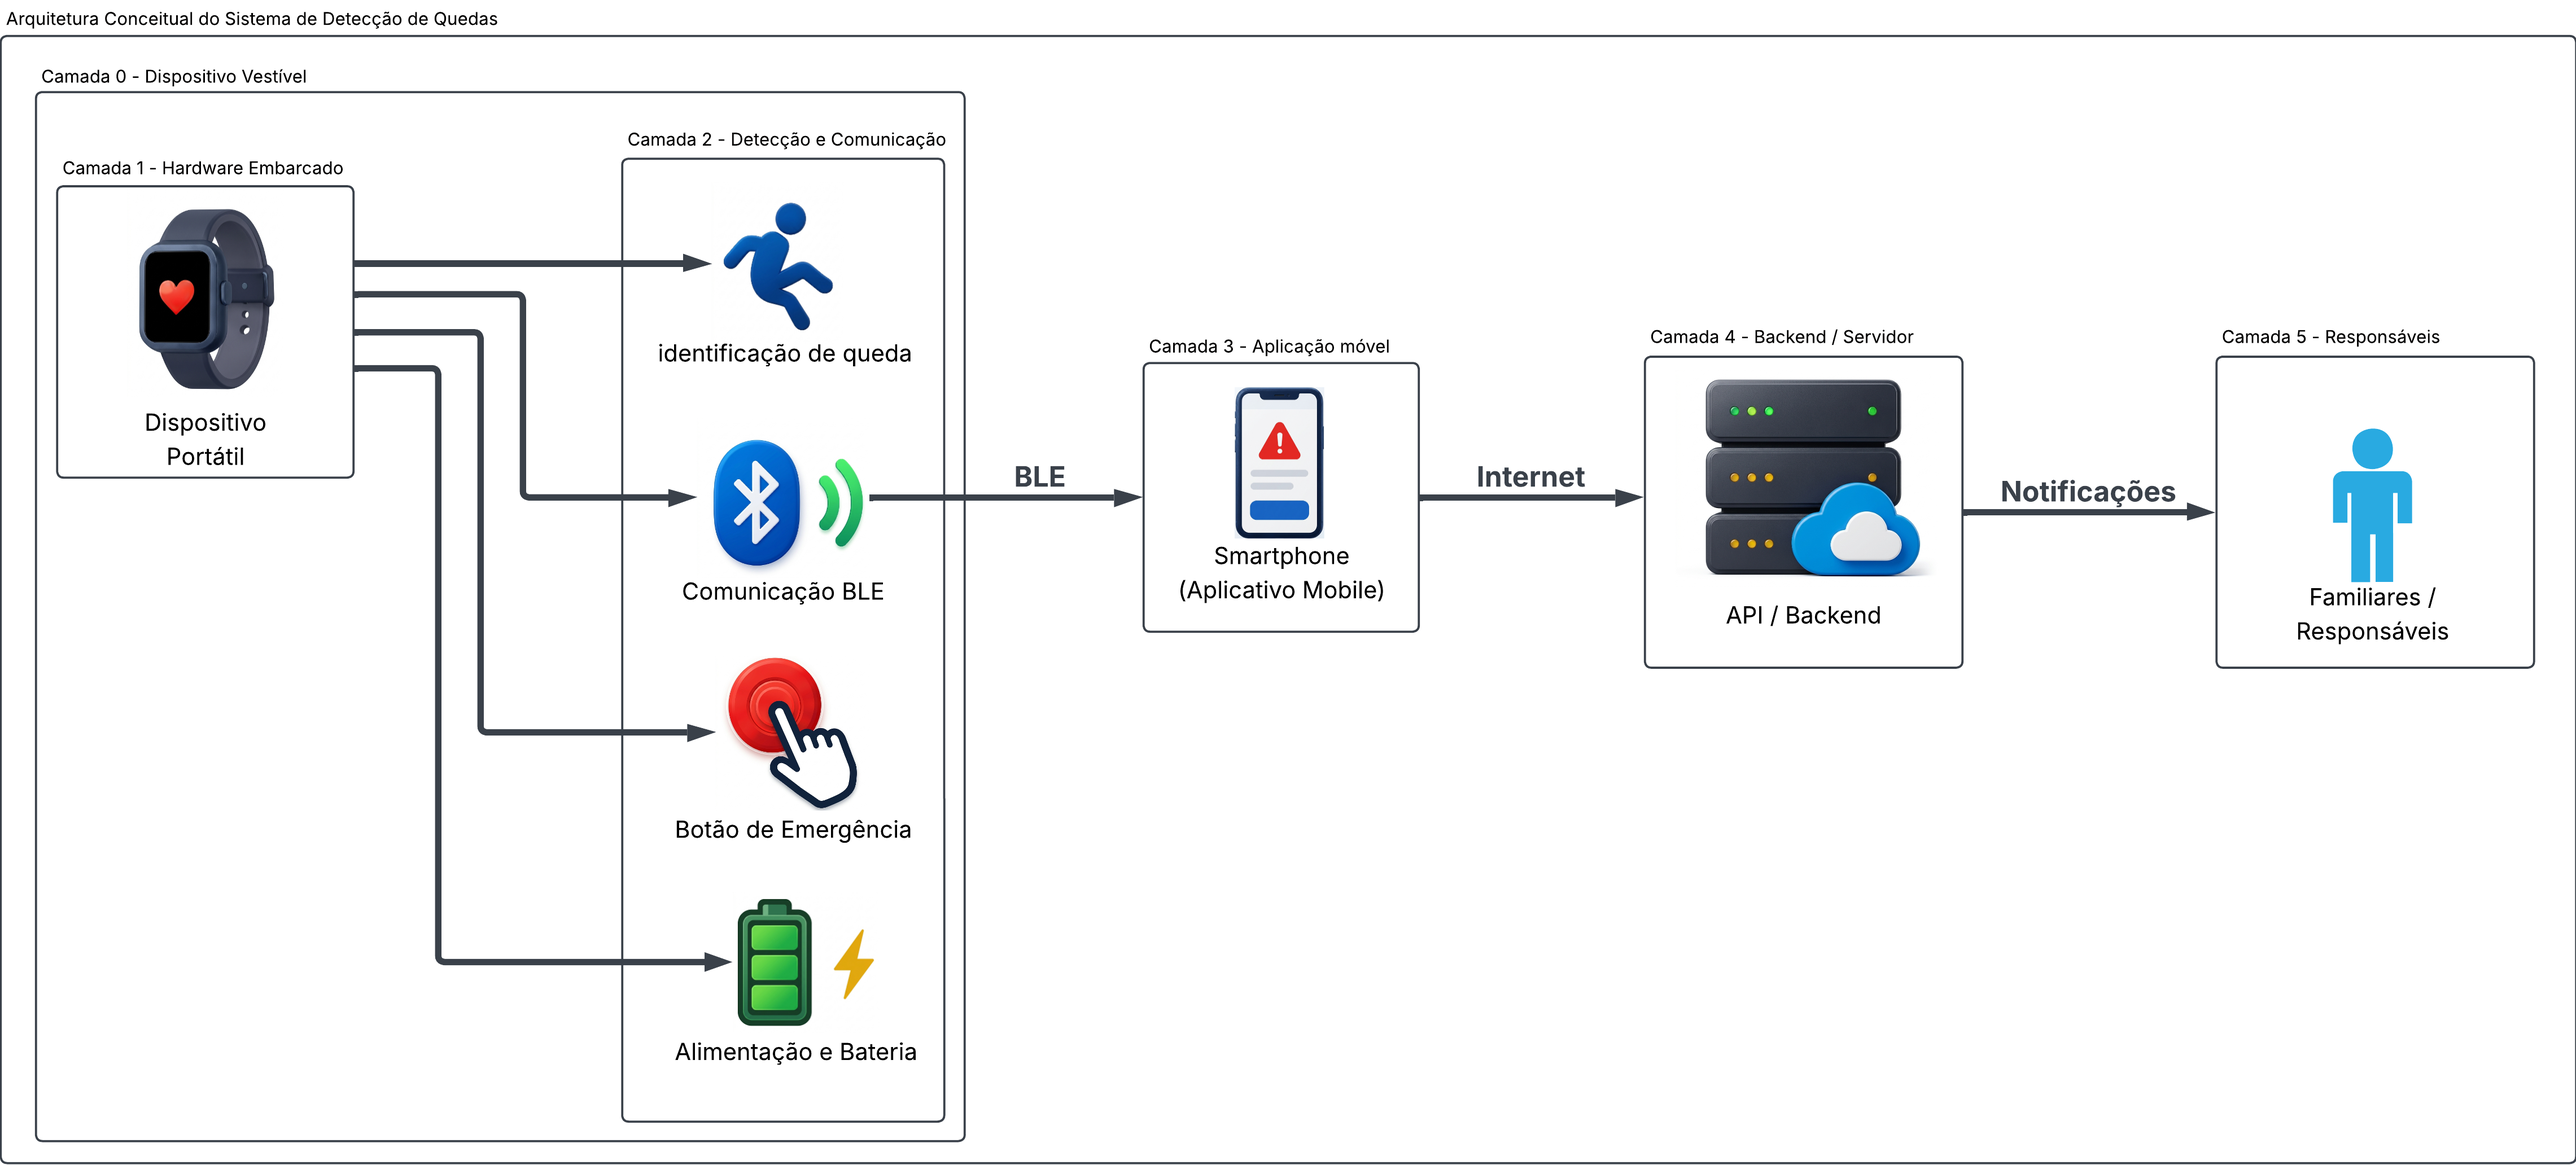
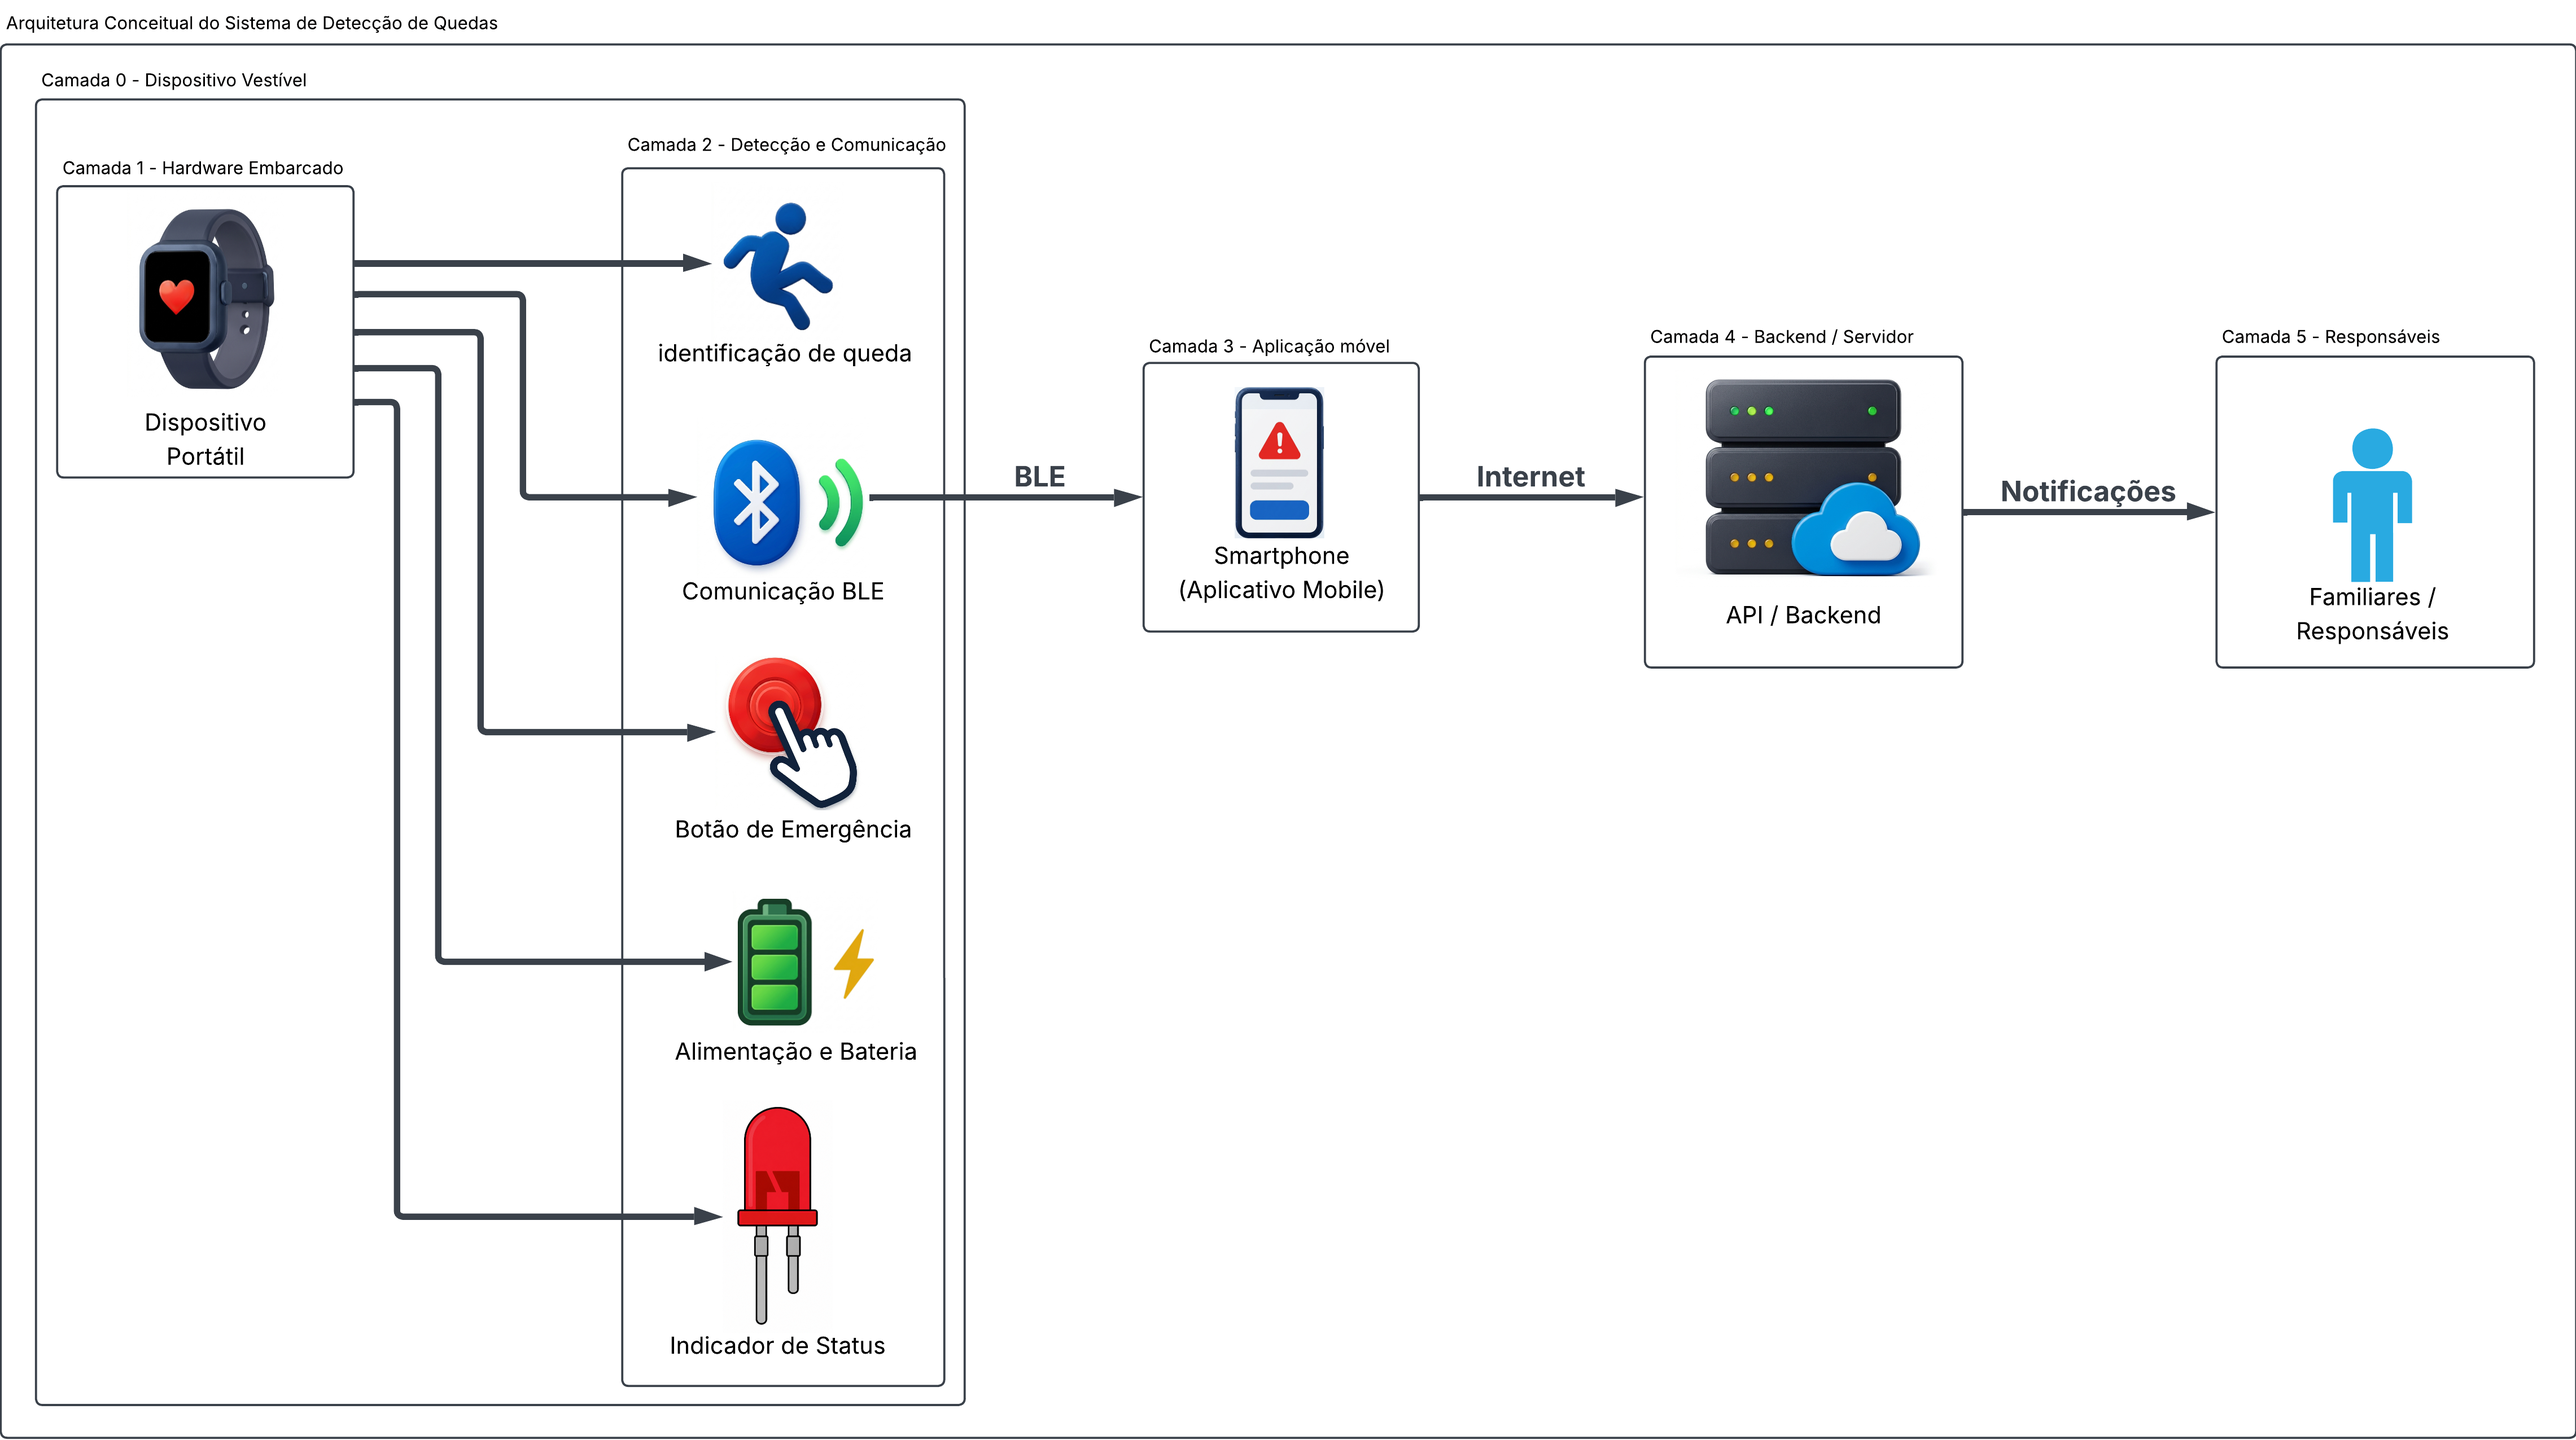
update - Atualização diagramas

diff --git a/etapa_1/mechanics/README.md b/etapa_1/mechanics/README.md
@@ -4,12 +4,33 @@ Nesta seção, serão discutidos os conceitos mecânicos iniciais que norteiam o
 
 ### Restrições de tamanho e conforto do dispositivo
 
-O desenvolvimento de um dispositivo vestível (*wearable*) voltado ao uso cotidiano, exige rigor na definição de suas especificações físicas e ergonômicas. A adesão ao uso contínuo do sistema depende diretamente do nível de conforto do equipamento, evitando que a estrutura cause incômodo, lesões ou rejeição por parte do usuário.
+O desenvolvimento de um dispositivo vestível (*wearable*) voltado ao uso cotidiano, exige rigor na definição de suas especificações físicas e ergonômicas. A adesão ao uso contínuo do sistema depende diretamente do nível de conforto do equipamento, evitando que a estrutura cause incômodo, lesões ou rejeição por parte do usuário, como já comentado anteriormente.
 
 Portanto, abaixo serão apresentados os levantamentos e restrições iniciais do dispositivo:
 - Restrições Dimensionais e de Massa
 - Materiais e Biocompatibilidade 
  (MELGORAR TUDO ISSO AQUI PQ NAO TA LEGAL)
+
+
+### Restrições de tamanho e conforto do dispositivo
+
+O desenvolvimento de um dispositivo vestível (*wearable*) voltado ao uso cotidiano exige rigor na definição de suas especificações físicas e ergonômicas. A adesão ao uso contínuo do sistema depende diretamente do nível de conforto do equipamento, evitando que a estrutura cause incômodo, lesões ou rejeição por parte do usuário, como já comentado anteriormente.
+
+Portanto, a seguir serão apresentados os levantamentos e restrições iniciais do dispositivo.
+
+#### Restrições dimensionais e de massa
+
+O projeto mecânico do invólucro deve considerar a ampla variação antropométrica dos usuários. A prática padrão de design ergonômico recomenda que o dispositivo seja dimensionado para atender de forma confortável desde o percentil 5 (perfil feminino) até o percentil 95 (perfil masculino) da população-alvo, garantindo ajuste adequado sem folgas excessivas nem compressão do punho do usuário.
+
+Em relação à massa, dispositivos vestíveis comparáveis — como *armbands* e pulseiras de reconhecimento de movimento com sensores embarcados — costumam variar entre aproximadamente 30 g e 100 g, dependendo da quantidade de sensores e da capacidade da bateria. Como referência, sistemas com um conjunto reduzido de sensores conseguem atingir massas próximas de 32,5 g, enquanto dispositivos com módulos de sensoriamento mais robustos ultrapassam os 90 g , como observado em bandas eletrônicas com sensor reduzido em torno de 32,5 g, contra dispositivos comparáveis que chegam a 78 g e 96 g com sensoriamento mais completo. Para a Pulseira SysCarry, isso sugere uma massa-alvo na faixa de 30–50 g, de modo a manter o dispositivo leve o suficiente para uso contínuo (incluindo durante o sono, se esse for um cenário de uso previsto), sem comprometer a autonomia da bateria.
+
+Outro ponto relevante é a interferência com vestimentas: mangas de camisas e punhos de roupas são pontos comuns de atrito para dispositivos vestíveis de pulso, o que reforça a necessidade de um perfil de baixo relevo (*low-profile*) na carcaça , já que roupas são sempre um fator a considerar, havendo conflito entre mangas e punhos de camisa e o dispositivo vestível no pulso.
+
+#### Materiais e biocompatibilidade
+
+Por se tratar de um dispositivo em contato direto e prolongado com a pele, a seleção de materiais deve seguir critérios de biocompatibilidade reconhecidos internacionalmente, como a norma **ISO 10993**, que trata da avaliação biológica de dispositivos médicos e é aplicável também a *wearables* de contato cutâneo. Os ensaios mais relevantes para esse tipo de produto são a citotoxicidade (ISO 10993-5), a sensibilização cutânea (ISO 10993-10) e a irritação (ISO 10993-23), que juntos avaliam se o material provoca reações alérgicas, toxicidade celular ou irritação na pele do usuário , sendo os testes de citotoxicidade, sensibilização/irritação e toxicidade sistêmica os mais comuns exigidos para materiais de contato prolongado com a pele.
+
+Como referência para os materiais da carcaça e da correia, silicone de grau médico e TPU (poliuretano termoplástico) certificados conforme ISO 10993 são amplamente utilizados em dispositivos vestíveis por serem hipoalergênicos e não irritantes em uso contínuo , já que filamentos de TPU flexível certificados garantem que o material não causa reações alérgicas ou irritação de pele, tornando-o seguro para dispositivos vestíveis em contato direto com a pele. Recomenda-se ainda evitar o contato de componentes metálicos (parafusos, contatos de carregamento) com níquel exposto, optando por acabamentos hipoalergênicos, e priorizar materiais resistentes a suor e umidade, já que a resistência à transpiração é um requisito frequente em dispositivos de monitoramento contínuo.
 
 ### Medidas Físicas 
 

diff --git a/etapa_1/README.md b/etapa_1/README.md
@@ -22,11 +22,11 @@ Inserido nesse cenário, o monitoramento contínuo da população, principalment
 
 Portanto, este projeto propõe desenvolver um dispositivo vestível portátil, pequeno e de baixo consumo energético, semelhante a um relógio ou pulseira. O sistema busca detectar quedas e incidentes em tempo real, viabilizando o envio automático e imediato de alertas para familiares ou cuidadores responsáveis.
 
-O sistema será desenvolvido considerando dois cenários distintos de operação: dentro e fora da residência. Em ambos os casos, o dispositivo portátil será responsável pela detecção de quedas e situações de emergência, realizando a comunicação com um dispositivo móvel por meio de uma tecnologia de comunicação de baixo consumo de energia, como o Bluetooth Low Energy (BLE). 
+O sistema será desenvolvido considerando dois cenários distintos de operação: dentro e fora da residência. Em ambos os casos, o dispositivo portátil será responsável pela detecção de quedas e situações de emergência, realizando a comunicação com um dispositivo móvel por meio de uma tecnologia de comunicação de baixo consumo de energia, como o Bluetooth Low Energy (BLE). Além desta funcionalidade automática de detecção de queda, ainda tem-se um botão de emergência, com a finalidade de trazer ao usuário uma forma de acionamento manual e imediato, cobrindo cenários em que o algoritmo de detecção automática não identifique a queda ou em que o usuário necessite de auxílio por outro motivo, sem depender exclusivamente do sensoriamento automático.
 
 Segundo dados da Pesquisa Nacional por Amostra de Domicílios Contínua (PNAD Contínua TIC)[3], divulgados pelo Instituto Brasileiro de Geografia e Estatística (IBGE), em 2025, 80,3% das pessoas com 60 anos ou mais possuíam telefone móvel celular para uso pessoal, evidenciando a crescente inserção desse grupo no uso de tecnologias digitais. Diante desse cenário, a utilização do smartphone como dispositivo responsável pelo recebimento dos dados e encaminhamento dos alertas aos familiares ou responsáveis apresenta-se como uma alternativa viável para o sistema proposto. 
 
-Abaixo está o diagrama de casos de uso do projeto. Este é utilizado para representar as funcionalidades de um sistema e sua interação com usuários externos, denominados atores (FAKHROUTDINOV, 2026)[4].
+Abaixo, na Figura 2, está o diagrama de casos de uso do projeto. Este é utilizado para representar as funcionalidades de um sistema e sua interação com usuários externos, denominados atores (FAKHROUTDINOV, 2026)[4].
 
 <div align="center">
   <img src="img/diagrama_de_caso_de_uso.png" alt="Figura 2" width="85%">
